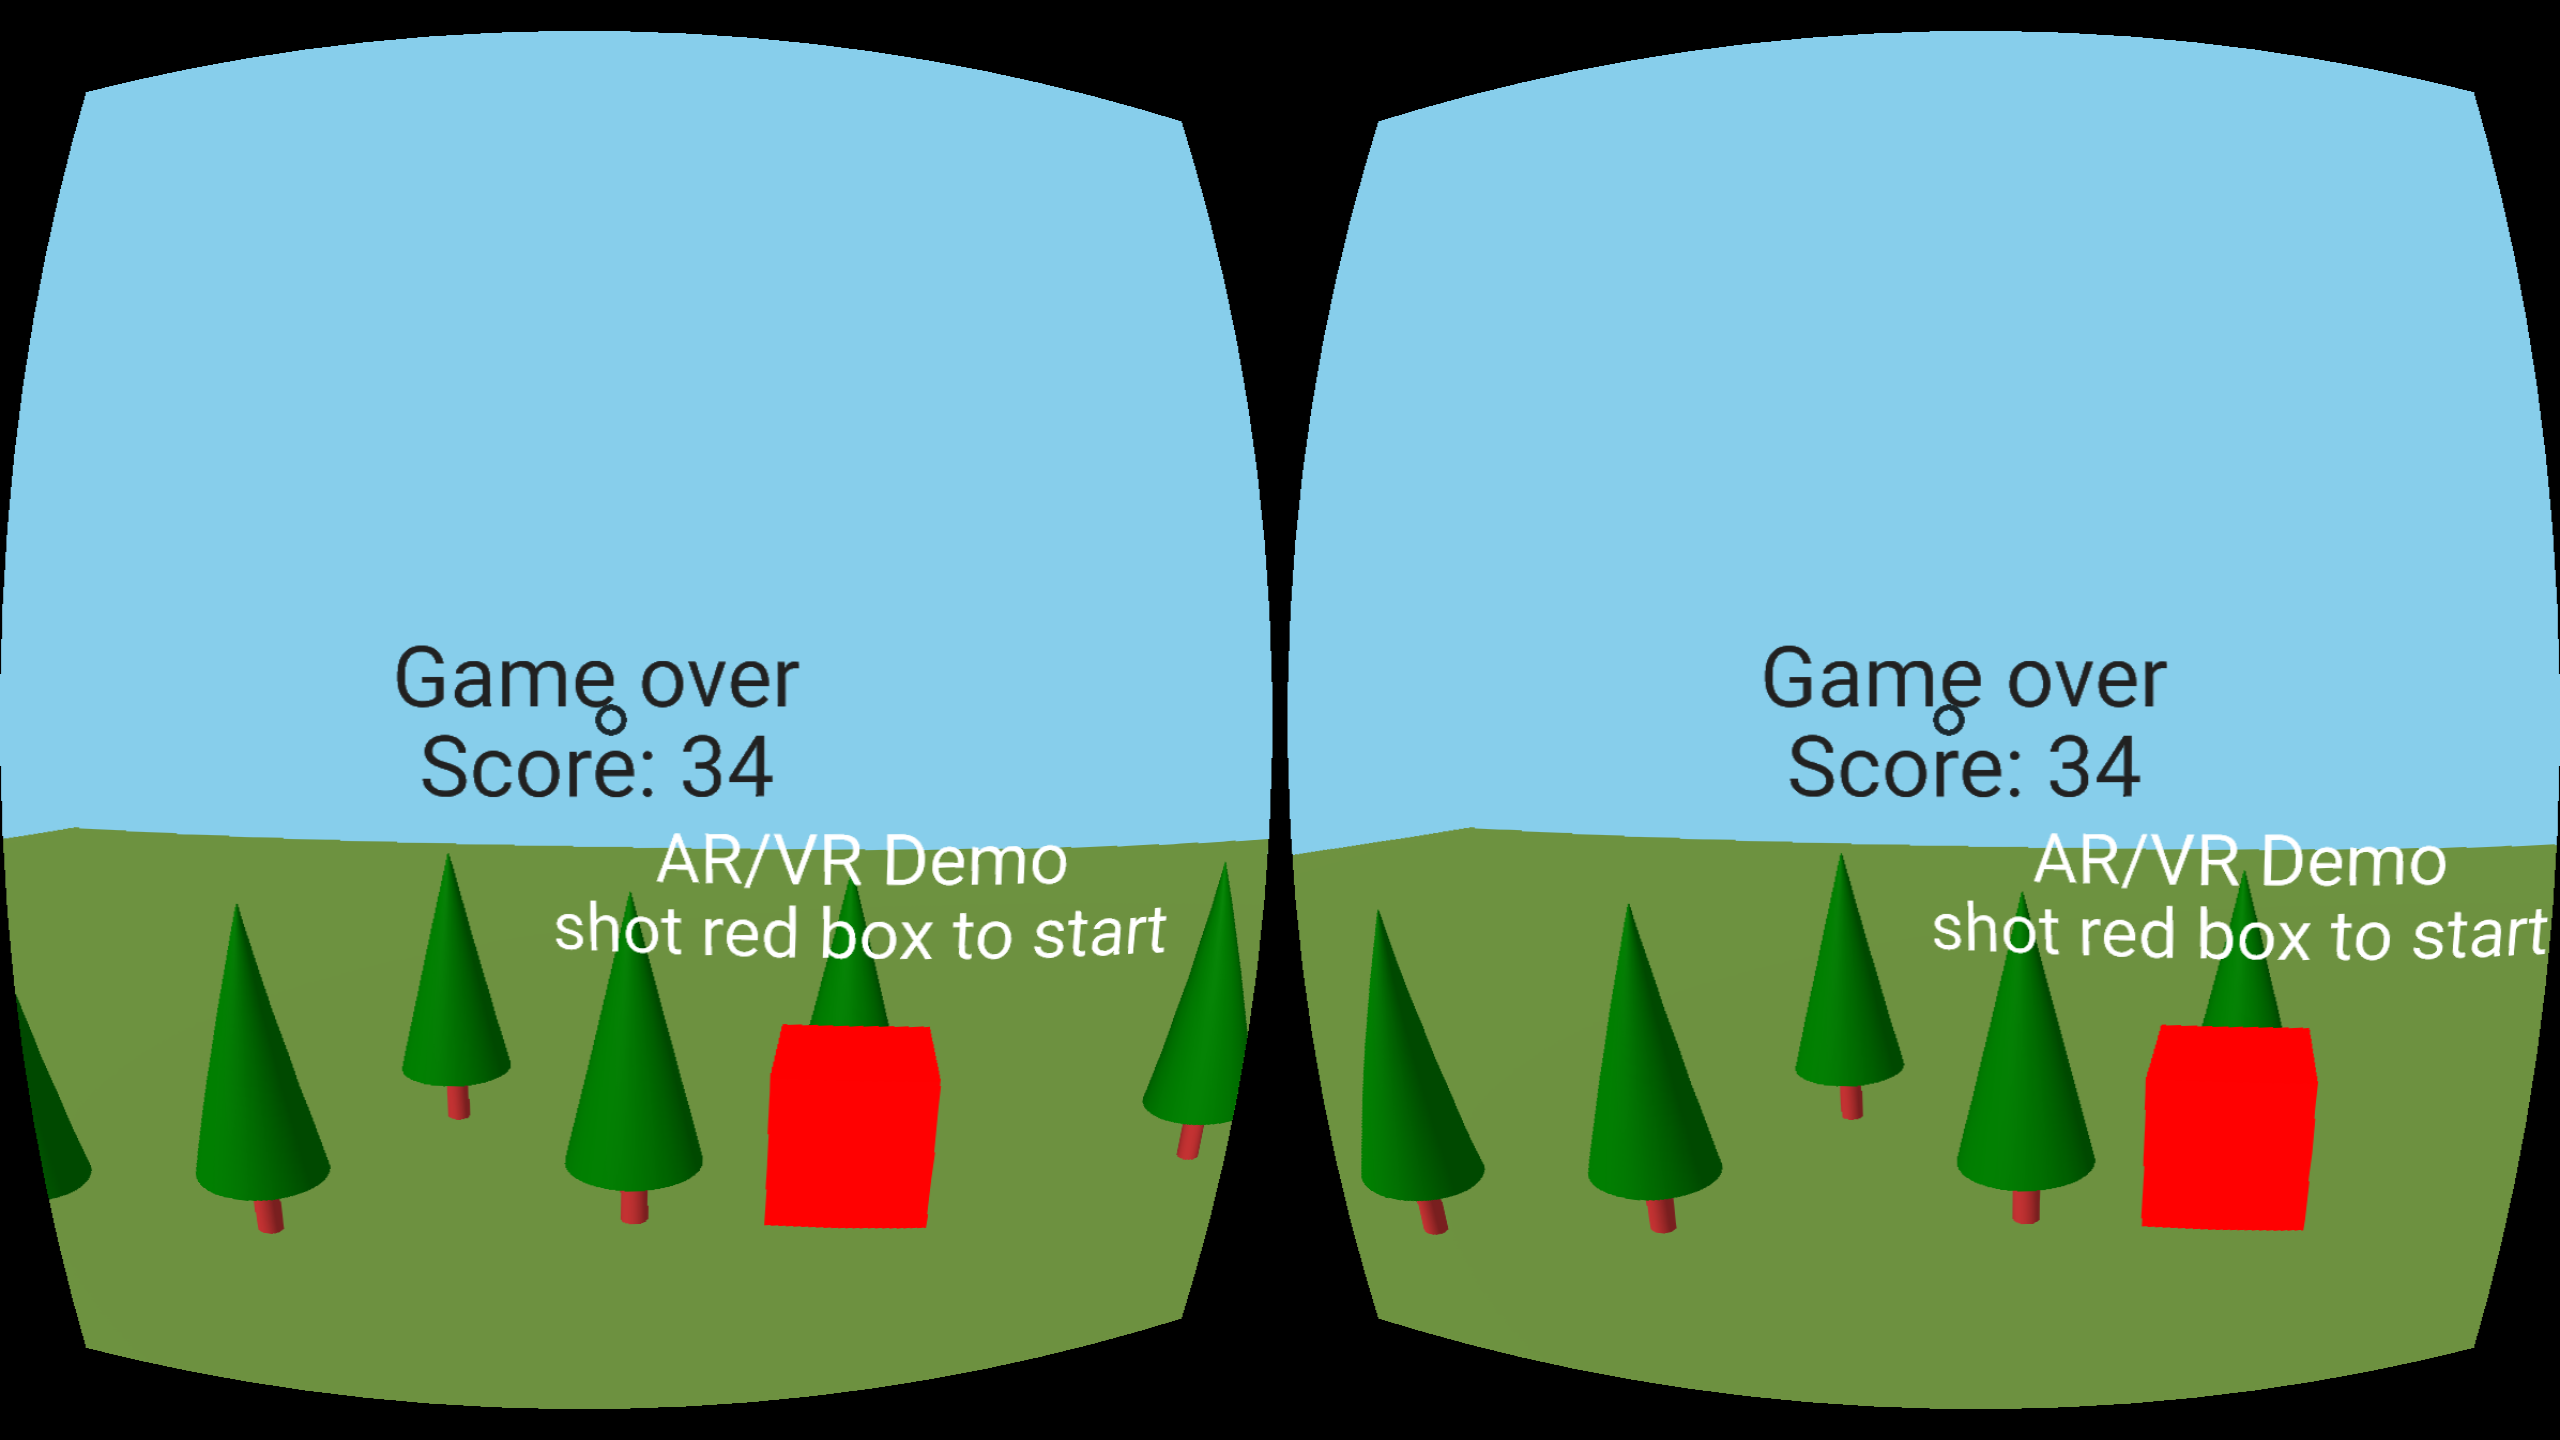
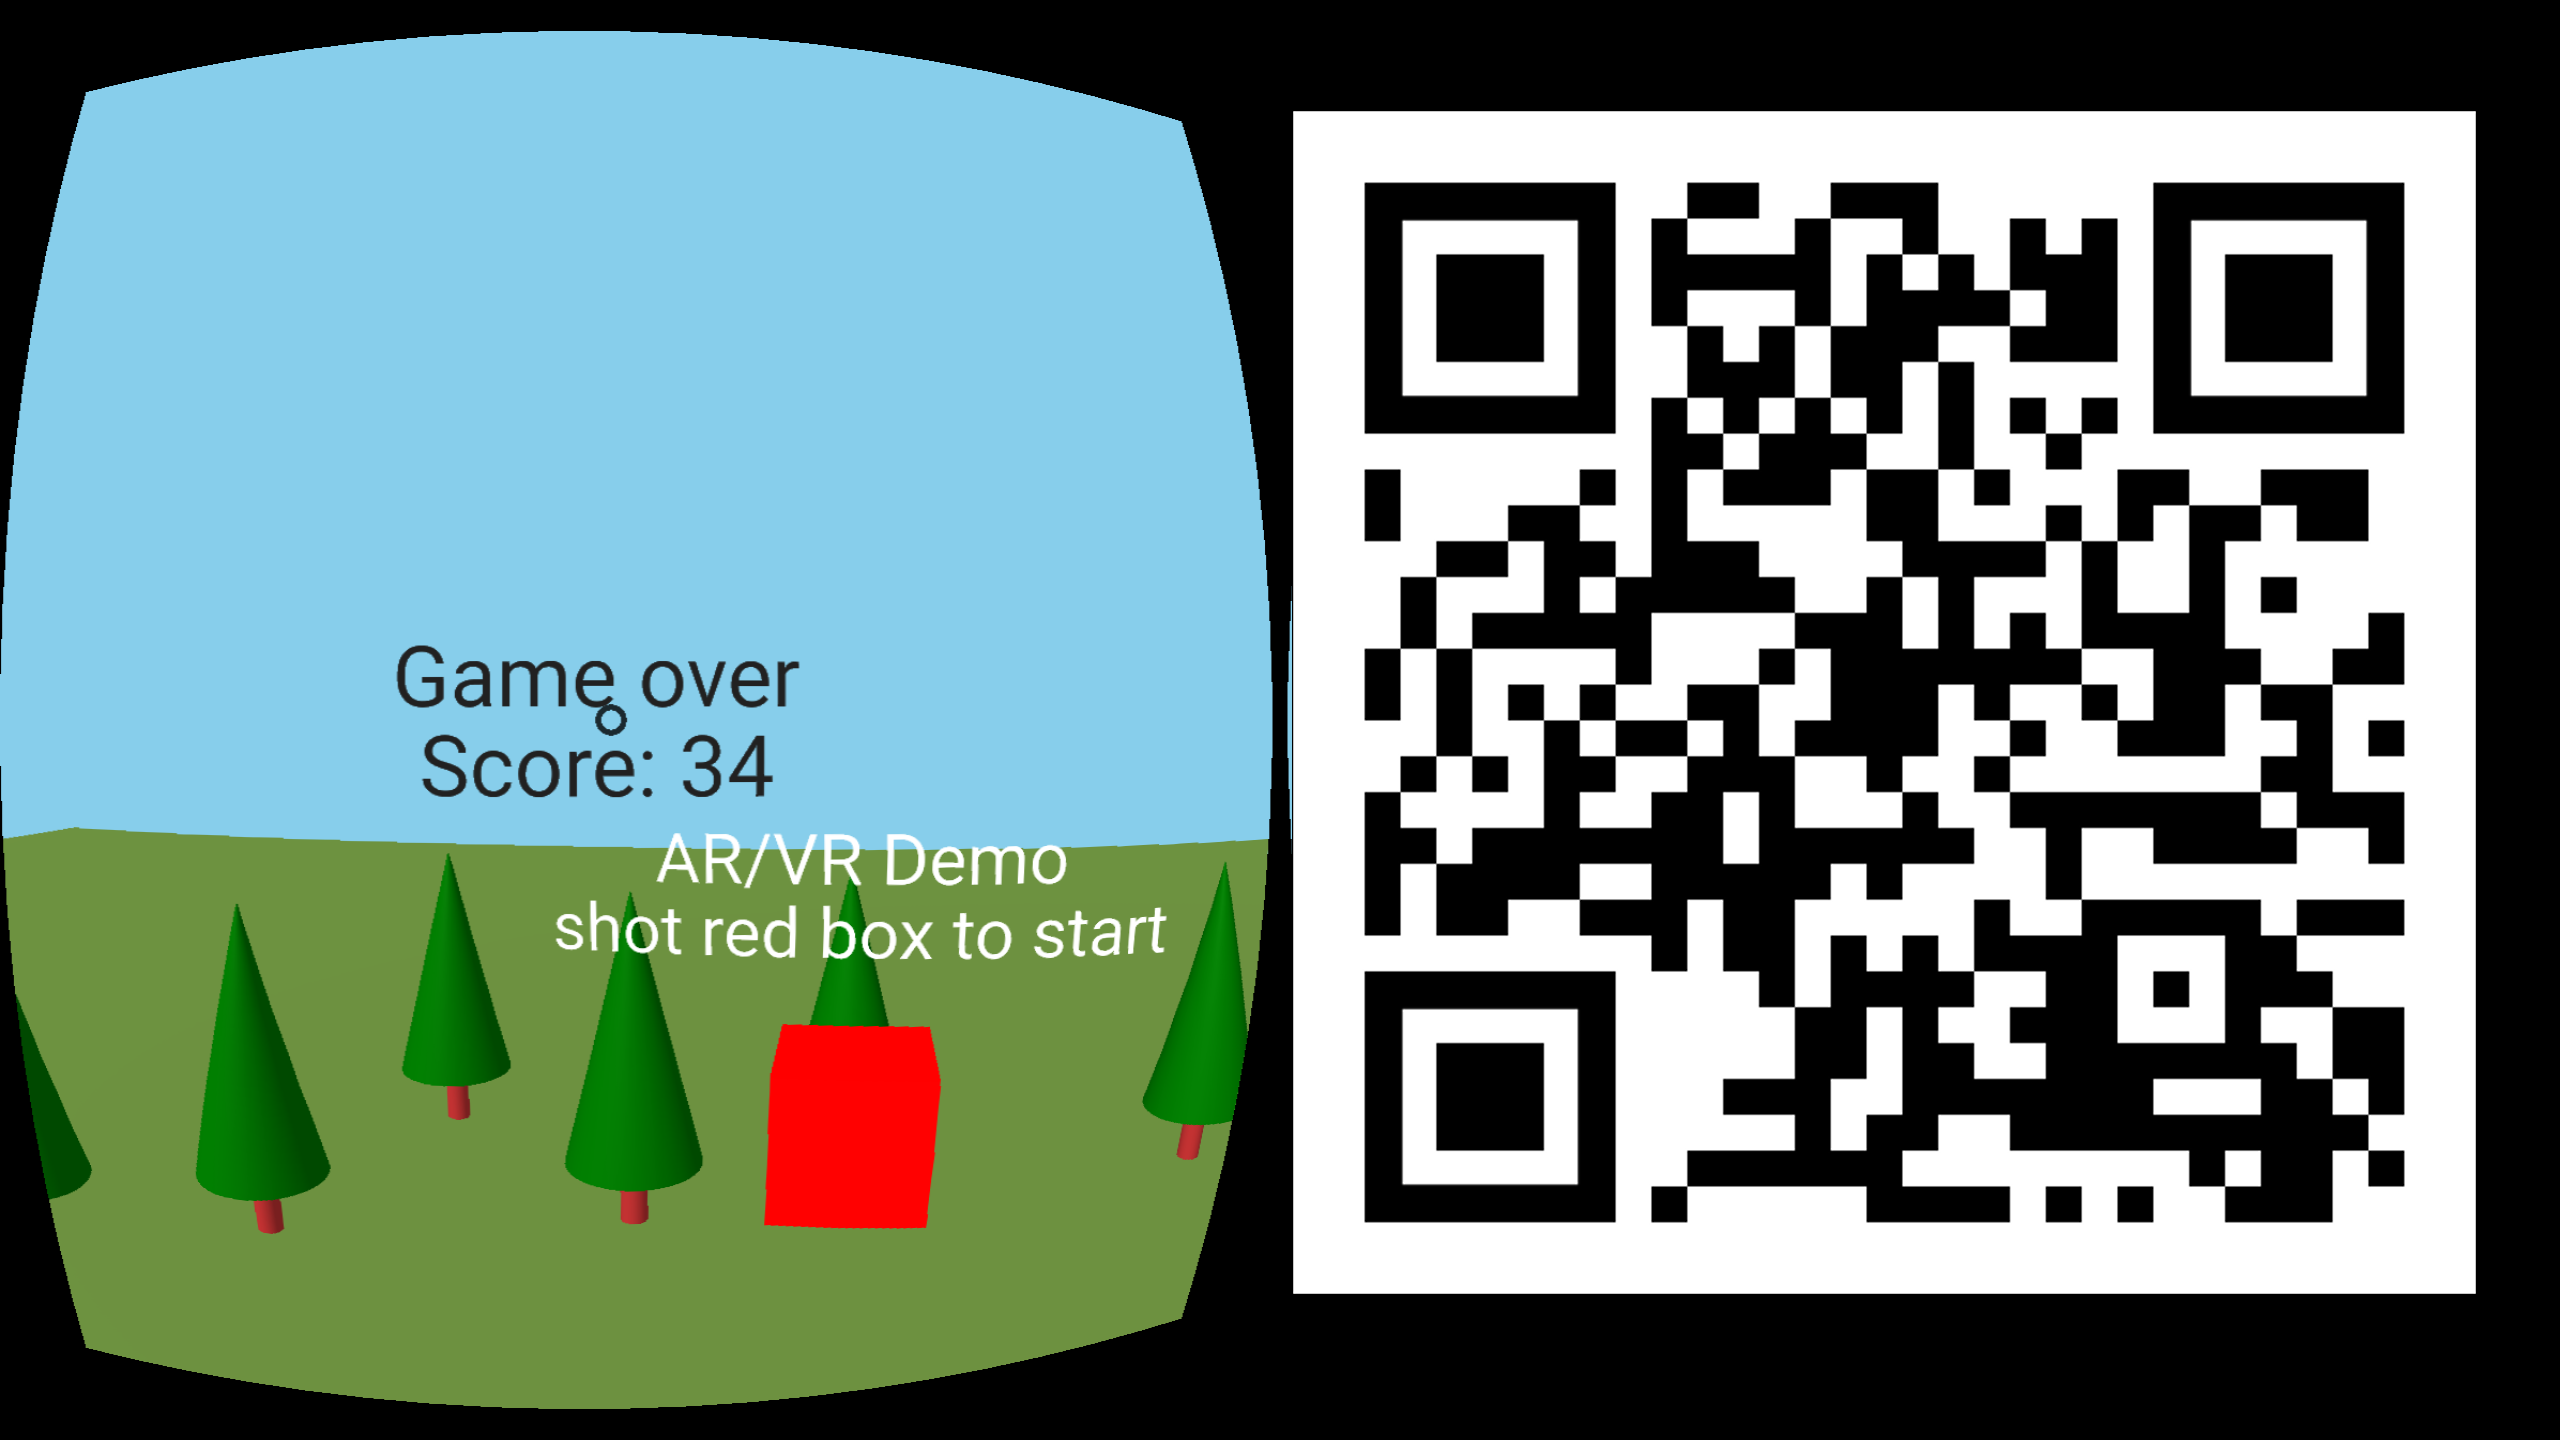
Improve slides a little

diff --git a/index.html b/index.html
@@ -52,7 +52,7 @@
             async: true,
             callback: function() { hljs.initHighlightingOnLoad(); }
           },
-        ]
+        ],
       });
     </script>
   </body>

diff --git a/custom.css b/custom.css
@@ -1,0 +1,5 @@
+.reveal section img {
+    display: block;
+    margin: auto;
+    max-height: 600px;
+}

diff --git a/slides.md b/slides.md
@@ -17,7 +17,7 @@ _by [@anxolerd](https://github.com/anxolerd)_
 
 >>>>>
 
-## [AR/VR](https://github.com/immersive-web/webxr) is not an exception
+## AR/VR is not an exception
 
 [![Dancing Porg](images/dancing-porg.png)](https://twitter.com/mrdoob/status/959598778662531072)
 
@@ -41,22 +41,22 @@ _by [@anxolerd](https://github.com/anxolerd)_
 
 >>>>>
 
-## [A-Frame](https://aframe.io)
+## A-Frame
 
 <ul>
   <li class="fragment">Declarative</li>
   <li class="fragment">Easy-to-learn</li>
-  <li class="fragment">Webcomponents*</li>
+  <li class="fragment">Webcomponents</li>
   <li class="fragment">Framework-agnostic</li>
-  <li class="fragment"><b>Community</b></li>
+  <li class="fragment">Community</li>
 </ul>
 
 >>>>>
 
-## [A-Frame](https://aframe.io)
+## A-Frame
 ### Relies on experimental technology
 
->>>>>
+-----
 
 ## [Live coding](https://glitch.com/~dust-chanter)
 
@@ -64,20 +64,69 @@ _by [@anxolerd](https://github.com/anxolerd)_
 
 >>>>>
 
+### Connect library
+
+    <script src="https://aframe.io/releases/0.8.0/aframe.min.js"></script>
+
+>>>>>
+
+### Create a scene
+
+```html
+<body>
+    <a-scene></a-scene>
+</body>
+```
+
+>>>>>
+
+### Add objects
+
+```html
+<a-box color="white" rotation="0 45 0" position="0 0.5 0"></a-box>
+<a-cylinder radius="0.2" height="1.5" 
+            color="brown" position="0 0.75 0">
+</a-cylinder>
+```
+
+>>>>>
+
+### Animations
+
+```html
+<a-torus color="gold" position="0 2.4 0">
+  <a-animation attribute="rotation"
+               from="0 0 0"
+               to="0 360 0"
+               dur="5000"
+               repeat="indefinite"
+               easing="linear">
+  </a-animation>
+</a-torus>
+```
+
+>>>>>
+
+### Import external objects
+
+```html
+<a-assets>
+    <a-asset-item id="model" src="model.obj"></a-asset-item>
+    <a-asset-item id="material" src="material.mtl"></a-asset-item>
+</a-assets>
+
+<a-entity obj-model="obj: #model; mtl: #material"></a-entity>
+```
+
+-----
+
 ## You can even build a game!
 
 [![Game](images/shoot-those-boxes.png)](https://glitch.com/~shoot-those-boxes)
 
->>>>>
-
-[![QR](images/shoot-those-boxes-qr.png)](https://shoot-those-boxes.glitch.me)
-
 -----
 
-# Thanks
-
------
-
-# Questions?
+## Thanks. Questions?
 
 ![Corgi](images/corgi.gif)
+
